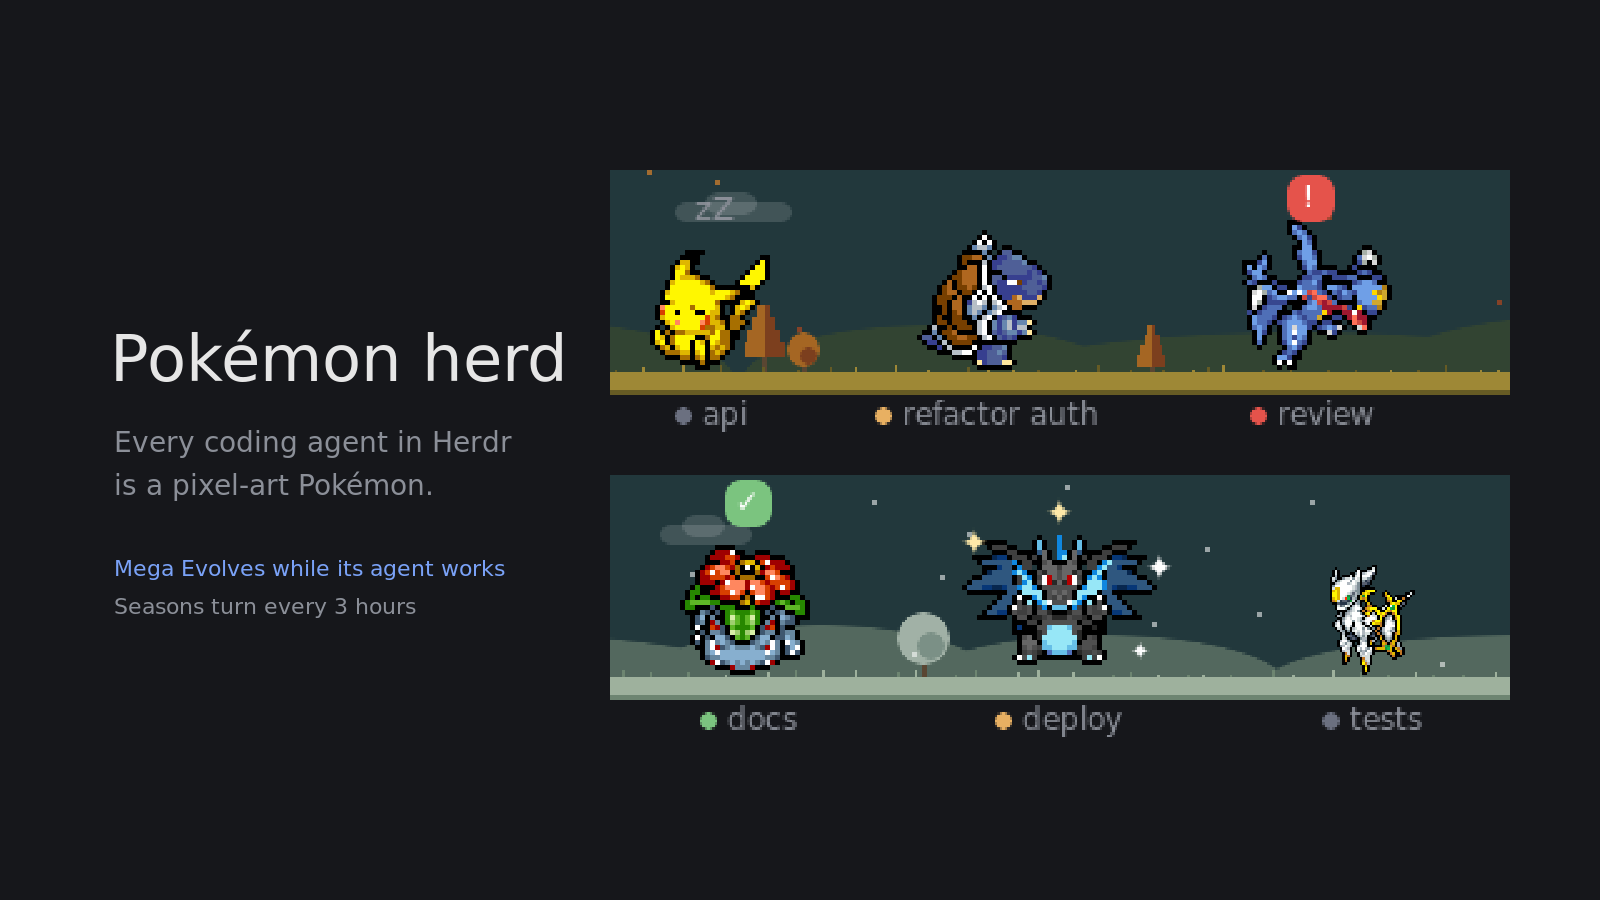
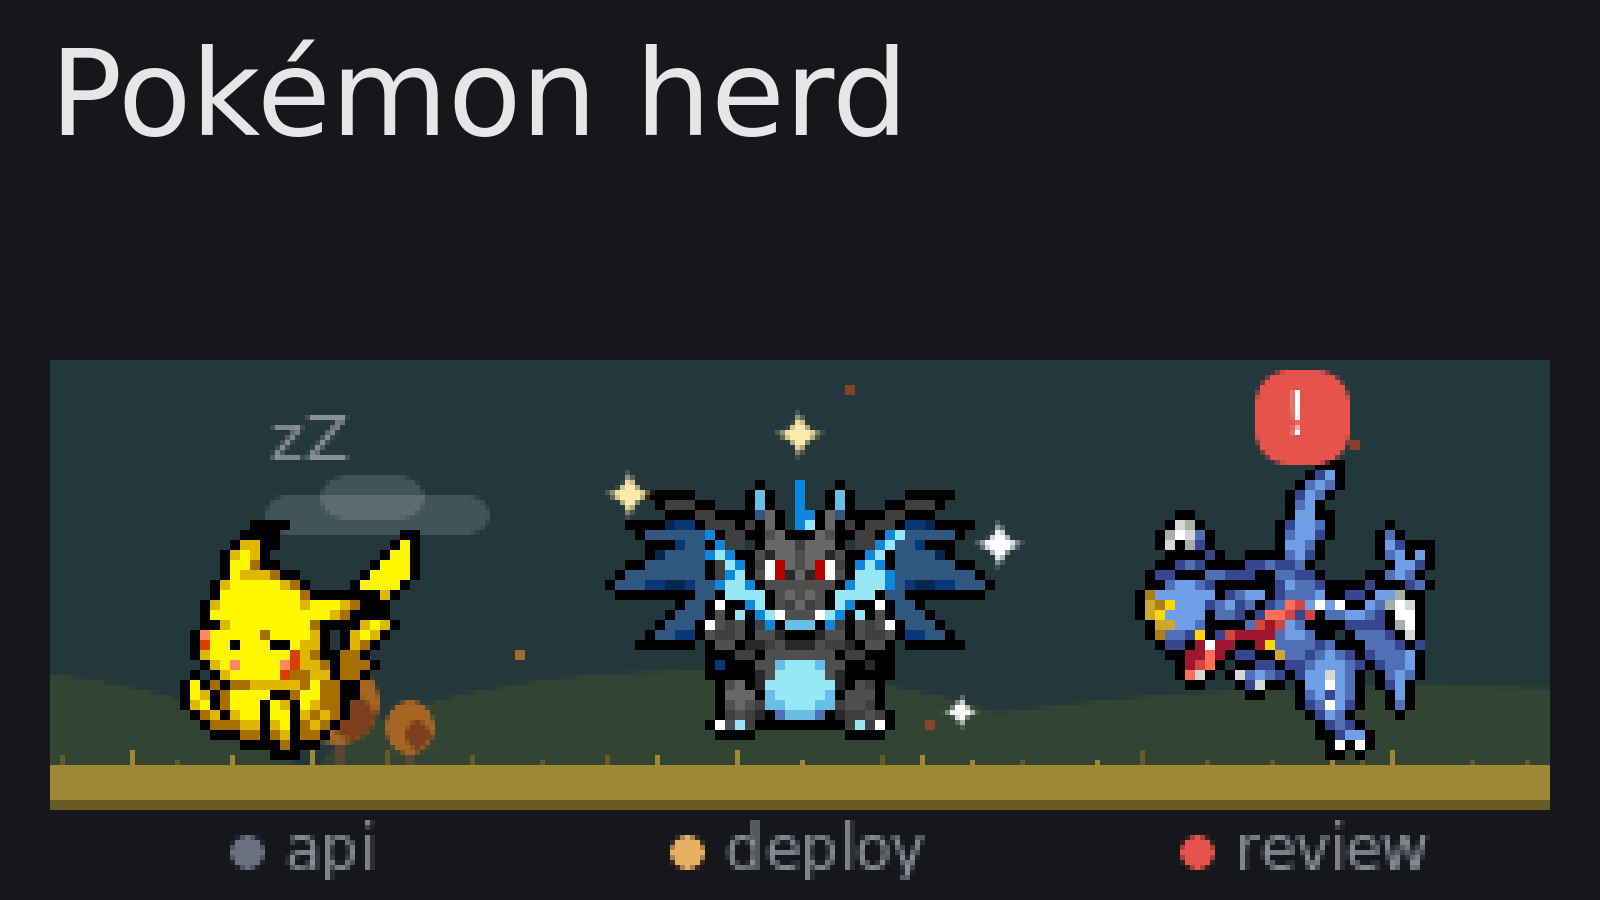
Gallery card readable at card size: one row of three Pokémon at 5x and a big title
The herdr.dev card shows preview.png about 245 px wide, so two rows of six small
sprites and thin captions blurred to mush.

diff --git a/scripts/make-demos.py b/scripts/make-demos.py
@@ -493,30 +493,26 @@ def party(tmp):
 
 
 def preview(tmp):
-    """preview.png at the repo root (the herdr.dev gallery card, 1600x900): the herd, big, with
-    the mod's name."""
+    """preview.png at the repo root (the herdr.dev gallery card, 1600x900). The card shows it about
+    245 px wide (a 6.5x shrink), so it carries little and big: one row of three Pokémon at 5x,
+    and the name in large type. Small sprites or thin text turn to mush at that size."""
     A = lambda f, n: Anim.get(f, n, tmp)
     t = 1200
     mega = A("0006-0001", "idleD")
+    top = 20
     mons = [
-        Mon(A("0025", "sleep"), 40, 0, "api", t=t, zz=True),
-        Mon(A("0009", "walkR"), 150, 0, "refactor auth", "working", t=t),
-        Mon(A("0445", "idleR"), 280, 0, "review", "blocked", t=t, bubble="!"),
-        Mon(A("0003", "idleD"), 55, 1, "docs", "done", t=t, bubble="✓"),
+        Mon(A("0025", "sleep"), 50, 0, "api", t=t, zz=True),
         # Charizard, just Mega Evolved into Mega Charizard X as its agent got to work.
-        Mon(mega, 180, 1, "deploy", "working", t=t, sparkles=sparkle_ring(0, 180, 20 + ROW_H + GROUND - mega.height(), spread=40)),
-        Mon(A("0493", "idleL"), 305, 1, "tests", t=t),
+        Mon(mega, 150, 0, "deploy", "working", t=t, sparkles=sparkle_ring(0, 150, top + GROUND - mega.height(), spread=40)),
+        Mon(A("0445", "idleL"), 250, 0, "review", "blocked", t=t, bubble="!"),
     ]
-    sky["season"] = [season("autumn"), season("winter")]  # two of the seasons the scene turns through
+    sky["season"] = [season("autumn")]
     strip = os.path.join(tmp, "preview-strip.png")
-    draw(strip, 360, 2, mons, top=20, t=4000)
+    draw(strip, 300, 1, mons, top=top, t=4000)
     sky["season"] = None
     out = os.path.join(OUT, "..", "..", "preview.png")
-    magick("-size", "1600x900", f"xc:{BG}", "(", strip, "-filter", "point", "-resize", "250%", ")", "-gravity", "east", "-geometry", "+90+0", "-composite",
-           "-gravity", "northwest", "-font", FONT, "-fill", FG, "-pointsize", "64", "-annotate", "+110+330", "Pokémon herd",
-           "-fill", MUTED, "-pointsize", "28", "-annotate", "+114+430", "Every coding agent in Herdr", "-annotate", "+114+472", "is a pixel-art Pokémon.",
-           "-fill", ACCENT, "-pointsize", "22", "-annotate", "+114+560", "Mega Evolves while its agent works",
-           "-fill", MUTED, "-annotate", "+114+598", "Seasons turn every 3 hours",
+    magick("-size", "1600x900", f"xc:{BG}", "(", strip, "-filter", "point", "-resize", "500%", ")", "-gravity", "south", "-geometry", "+0+20", "-composite",
+           "-gravity", "northwest", "-font", FONT, "-fill", FG, "-pointsize", "120", "-annotate", "+50+40", "Pokémon herd",
            out)
     print(f"{os.path.relpath(out)}: {os.path.getsize(out) // 1024} KB")
 
